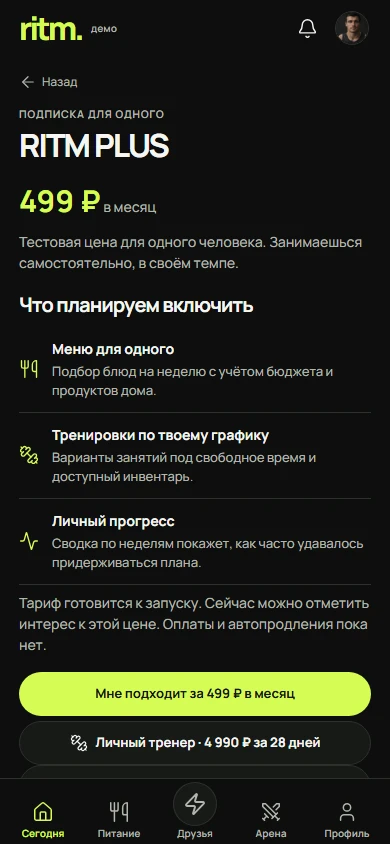
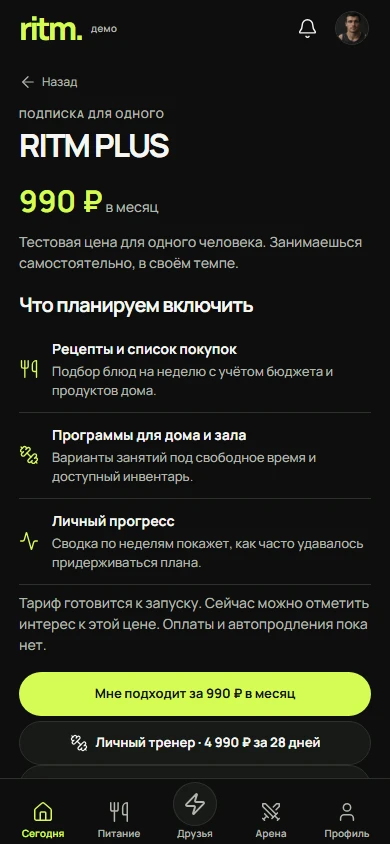
Publish the solo, coach, nutrition and group storefront

diff --git a/docs/meeting/screens/index.html b/docs/meeting/screens/index.html
@@ -1,3 +1,3 @@
 <!DOCTYPE html>
 
-<html lang="ru"><meta charset="utf-8"/><meta content="width=device-width,initial-scale=1" name="viewport"/><title>ritm. — Экраны приложения</title><link href="../assets/fonts.css" rel="stylesheet"/><style>*{box-sizing:border-box}body{margin:0 auto;background:#0d0e0d;color:#f5f6f2;max-width:1100px;padding:24px 18px 70px;font:500 15px/1.45 "Manrope Variable",sans-serif}header{display:flex;align-items:center;justify-content:space-between}header b{font-size:30px;letter-spacing:-.08em;color:#d5fc53}a{color:#d5fc53;text-underline-offset:.2em}h1{letter-spacing:-.05em;font-size:clamp(31px,6vw,54px);line-height:1.1}h2{border-top:1px solid #353831;padding-top:20px;margin:30px 0 12px}.grid{display:grid;grid-template-columns:repeat(auto-fit,minmax(min(158px,44%),1fr));gap:15px}.image{display:block;max-width:240px;border-radius:14px;overflow:hidden;border:1px solid #343930}img{display:block;width:100%;height:auto}h3{font-size:15px;margin:8px 0 1px}p{margin:4px 0;color:#b1b6ac;font-size:13px}article>p a{display:inline-block;padding:5px 0}</style><header><b>ritm.</b><a href="../?screen=programs">Открыть приложение ↗</a></header><h1>Экраны RITM</h1><p>Снимки работающего приложения. Нажми на экран, чтобы рассмотреть детали.</p><a href="RITM-meeting.pdf">PDF для встречи · Founder Preview 1.0</a><section id="solo"><h2>Начать самостоятельно</h2><div class="grid"><article><a class="image" href="solo-programs-390.webp"><img alt="Выбрать программу для себя" loading="lazy" src="solo-programs-390.webp"/></a><h3>Выбрать программу для себя</h3><p><a href="solo-programs-375.webp">375 px</a> · <a href="solo-programs-390.webp">390 px</a> · <a href="solo-programs-430.webp">430 px</a></p></article><article><a class="image" href="plus-390.webp"><img alt="RITM PLUS · тариф для одного" loading="lazy" src="plus-390.webp"/></a><h3>Личный тариф за 499 ₽ в месяц</h3><p><a href="plus-375.webp">375 px</a> · <a href="plus-390.webp">390 px</a> · <a href="plus-430.webp">430 px</a></p></article><article><a class="image" href="coach-390.webp"><img alt="Личный тренер на 28 дней" loading="lazy" src="coach-390.webp"/></a><h3>Личный тренер · 4 990 ₽ за 28 дней</h3><p><a href="coach-375.webp">375 px</a> · <a href="coach-390.webp">390 px</a> · <a href="coach-430.webp">430 px</a></p></article><article><a class="image" href="nutritionist-390.webp"><img alt="Личный нутрициолог на 28 дней" loading="lazy" src="nutritionist-390.webp"/></a><h3>Личный нутрициолог · 12 900 ₽ за 28 дней</h3><p><a href="nutritionist-375.webp">375 px</a> · <a href="nutritionist-390.webp">390 px</a> · <a href="nutritionist-430.webp">430 px</a></p></article><article><a class="image" href="solo-question-390.webp"><img alt="Получить подсказку по двум ответам" loading="lazy" src="solo-question-390.webp"/></a><h3>Получить подсказку по двум ответам</h3><p><a href="solo-question-375.webp">375 px</a> · <a href="solo-question-390.webp">390 px</a> · <a href="solo-question-430.webp">430 px</a></p></article><article><a class="image" href="solo-food-390.webp"><img alt="Выбрать блюдо на одного" loading="lazy" src="solo-food-390.webp"/></a><h3>Выбрать блюдо на одного</h3><p><a href="solo-food-375.webp">375 px</a> · <a href="solo-food-390.webp">390 px</a> · <a href="solo-food-430.webp">430 px</a></p></article><article><a class="image" href="solo-friends-390.webp"><img alt="Предложить другу выбрать ход" loading="lazy" src="solo-friends-390.webp"/></a><h3>Предложить другу выбрать ход</h3><p><a href="solo-friends-375.webp">375 px</a> · <a href="solo-friends-390.webp">390 px</a> · <a href="solo-friends-430.webp">430 px</a></p></article></div></section><section><h2>Первый вход</h2><div class="grid"><article><a class="image" href="welcome-390.webp"><img alt="Первое открытие" loading="lazy" src="welcome-390.webp"/></a><h3>Первое открытие</h3><p><a href="welcome-375.webp">375 px</a> · <a href="welcome-390.webp">390 px</a> · <a href="welcome-430.webp">430 px</a></p></article><article><a class="image" href="invite-code-390.webp"><img alt="Вход по приглашению" loading="lazy" src="invite-code-390.webp"/></a><h3>Вход по приглашению</h3><p><a href="invite-code-390.webp">390 px</a></p></article><article><a class="image" href="start-1-390.webp"><img alt="С чего хочешь начать?" loading="lazy" src="start-1-390.webp"/></a><h3>С чего хочешь начать?</h3><p><a href="start-1-390.webp">390 px</a></p></article><article><a class="image" href="start-2-390.webp"><img alt="Сколько времени есть в день?" loading="lazy" src="start-2-390.webp"/></a><h3>Сколько времени есть в день?</h3><p><a href="start-2-390.webp">390 px</a></p></article><article><a class="image" href="guest-390.webp"><img alt="Гостевой вход" loading="lazy" src="guest-390.webp"/></a><h3>Гостевой вход</h3><p><a href="guest-390.webp">390 px</a></p></article></div></section><section><h2>Сегодня</h2><div class="grid"><article><a class="image" href="today-390.webp"><img alt="В своём ритме" loading="lazy" src="today-390.webp"/></a><h3>В своём ритме</h3><p><a href="today-375.webp">375 px</a> · <a href="today-390.webp">390 px</a> · <a href="today-430.webp">430 px</a></p></article><article><a class="image" href="time-390.webp"><img alt="Доступное время" loading="lazy" src="time-390.webp"/></a><h3>Доступное время</h3><p><a href="time-390.webp">390 px</a></p></article><article><a class="image" href="plan-390.webp"><img alt="Мой план" loading="lazy" src="plan-390.webp"/></a><h3>Мой план</h3><p><a href="plan-390.webp">390 px</a></p></article><article><a class="image" href="ai-390.webp"><img alt="Подстроить план" loading="lazy" src="ai-390.webp"/></a><h3>Подстроить план</h3><p><a href="ai-390.webp">390 px</a></p></article><article><a class="image" href="notifications-390.webp"><img alt="Уведомления" loading="lazy" src="notifications-390.webp"/></a><h3>Уведомления</h3><p><a href="notifications-390.webp">390 px</a></p></article></div></section><section><h2>Питание</h2><div class="grid"><article><a class="image" href="food-390.webp"><img alt="Твоё питание" loading="lazy" src="food-390.webp"/></a><h3>Твоё питание</h3><p><a href="food-375.webp">375 px</a> · <a href="food-390.webp">390 px</a> · <a href="food-430.webp">430 px</a></p></article><article><a class="image" href="pantry-390.webp"><img alt="Из того, что дома" loading="lazy" src="pantry-390.webp"/></a><h3>Из того, что дома</h3><p><a href="pantry-390.webp">390 px</a></p></article><article><a class="image" href="recipe-390.webp"><img alt="Рецепт и порции" loading="lazy" src="recipe-390.webp"/></a><h3>Рецепт и порции</h3><p><a href="recipe-390.webp">390 px</a></p></article><article><a class="image" href="week-390.webp"><img alt="Меню на неделю" loading="lazy" src="week-390.webp"/></a><h3>Меню на неделю</h3><p><a href="week-390.webp">390 px</a></p></article><article><a class="image" href="cart-390.webp"><img alt="Продуктовая корзина" loading="lazy" src="cart-390.webp"/></a><h3>Продуктовая корзина</h3><p><a href="cart-390.webp">390 px</a></p></article></div></section><section><h2>Тренировки</h2><div class="grid"><article><a class="image" href="train-390.webp"><img alt="Твои тренировки" loading="lazy" src="train-390.webp"/></a><h3>Твои тренировки</h3><p><a href="train-375.webp">375 px</a> · <a href="train-390.webp">390 px</a> · <a href="train-430.webp">430 px</a></p></article><article><a class="image" href="work-390.webp"><img alt="Силовой блок" loading="lazy" src="work-390.webp"/></a><h3>Силовой блок</h3><p><a href="work-390.webp">390 px</a></p></article><article><a class="image" href="tech-390.webp"><img alt="Техника и варианты" loading="lazy" src="tech-390.webp"/></a><h3>Техника и варианты</h3><p><a href="tech-390.webp">390 px</a></p></article></div></section><section><h2>PULSE</h2><div class="grid"><article><a class="image" href="pulse-390.webp"><img alt="Твой круг и лента" loading="lazy" src="pulse-390.webp"/></a><h3>Твой круг и лента</h3><p><a href="pulse-375.webp">375 px</a> · <a href="pulse-390.webp">390 px</a> · <a href="pulse-430.webp">430 px</a></p></article><article><a class="image" href="reply-390.webp"><img alt="Ответить своим делом" loading="lazy" src="reply-390.webp"/></a><h3>Ответить своим делом</h3><p><a href="reply-390.webp">390 px</a></p></article><article><a class="image" href="circle-390.webp"><img alt="Управление кругом" loading="lazy" src="circle-390.webp"/></a><h3>Управление кругом</h3><p><a href="circle-390.webp">390 px</a></p></article><article><a class="image" href="leave-390.webp"><img alt="Выход из круга" loading="lazy" src="leave-390.webp"/></a><h3>Выход из круга</h3><p><a href="leave-390.webp">390 px</a></p></article><article><a class="image" href="together-390.webp"><img alt="Совместное время" loading="lazy" src="together-390.webp"/></a><h3>Совместное время</h3><p><a href="together-390.webp">390 px</a></p></article></div></section><section><h2>Арена</h2><div class="grid"><article><a class="image" href="arena-390.webp"><img alt="Арена и счёт" loading="lazy" src="arena-390.webp"/></a><h3>Арена и счёт</h3><p><a href="arena-375.webp">375 px</a> · <a href="arena-390.webp">390 px</a> · <a href="arena-430.webp">430 px</a></p></article><article><a class="image" href="game-390.webp"><img alt="История дуэли" loading="lazy" src="game-390.webp"/></a><h3>История дуэли</h3><p><a href="game-390.webp">390 px</a></p></article><article><a class="image" href="setup-390.webp"><img alt="Новая дуэль" loading="lazy" src="setup-390.webp"/></a><h3>Новая дуэль</h3><p><a href="setup-390.webp">390 px</a></p></article><article><a class="image" href="share-390.webp"><img alt="Приглашение другу" loading="lazy" src="share-390.webp"/></a><h3>Приглашение другу</h3><p><a href="share-390.webp">390 px</a></p></article></div></section><section><h2>Профиль</h2><div class="grid"><article><a class="image" href="dna-1-390.webp"><img alt="Какова твоя цель?" loading="lazy" src="dna-1-390.webp"/></a><h3>Какова твоя цель?</h3><p><a href="dna-1-390.webp">390 px</a></p></article><article><a class="image" href="dna-2-390.webp"><img alt="Какое изменение особенно важно?" loading="lazy" src="dna-2-390.webp"/></a><h3>Какое изменение особенно важно?</h3><p><a href="dna-2-390.webp">390 px</a></p></article><article><a class="image" href="dna-3-390.webp"><img alt="Какой уровень тебе близок?" loading="lazy" src="dna-3-390.webp"/></a><h3>Какой уровень тебе близок?</h3><p><a href="dna-3-390.webp">390 px</a></p></article><article><a class="image" href="dna-4-390.webp"><img alt="Как давно ты тренируешься?" loading="lazy" src="dna-4-390.webp"/></a><h3>Как давно ты тренируешься?</h3><p><a href="dna-4-390.webp">390 px</a></p></article><article><a class="image" href="dna-5-390.webp"><img alt="Сколько времени обычно есть?" loading="lazy" src="dna-5-390.webp"/></a><h3>Сколько времени обычно есть?</h3><p><a href="dna-5-390.webp">390 px</a></p></article><article><a class="image" href="dna-6-390.webp"><img alt="Где удобнее заниматься?" loading="lazy" src="dna-6-390.webp"/></a><h3>Где удобнее заниматься?</h3><p><a href="dna-6-390.webp">390 px</a></p></article><article><a class="image" href="dna-7-390.webp"><img alt="Какое оборудование доступно?" loading="lazy" src="dna-7-390.webp"/></a><h3>Какое оборудование доступно?</h3><p><a href="dna-7-390.webp">390 px</a></p></article><article><a class="image" href="dna-8-390.webp"><img alt="Какую еду выбираешь?" loading="lazy" src="dna-8-390.webp"/></a><h3>Какую еду выбираешь?</h3><p><a href="dna-8-390.webp">390 px</a></p></article><article><a class="image" href="dna-9-390.webp"><img alt="Есть продукты, которые исключить?" loading="lazy" src="dna-9-390.webp"/></a><h3>Есть продукты, которые исключить?</h3><p><a href="dna-9-390.webp">390 px</a></p></article><article><a class="image" href="dna-10-390.webp"><img alt="Что важнее при выборе продуктов?" loading="lazy" src="dna-10-390.webp"/></a><h3>Что важнее при выборе продуктов?</h3><p><a href="dna-10-390.webp">390 px</a></p></article><article><a class="image" href="dna-11-390.webp"><img alt="Что чаще мешает продолжать?" loading="lazy" src="dna-11-390.webp"/></a><h3>Что чаще мешает продолжать?</h3><p><a href="dna-11-390.webp">390 px</a></p></article><article><a class="image" href="dna-12-390.webp"><img alt="Что помогает вернуться?" loading="lazy" src="dna-12-390.webp"/></a><h3>Что помогает вернуться?</h3><p><a href="dna-12-390.webp">390 px</a></p></article><article><a class="image" href="dna-13-390.webp"><img alt="Как хочешь заниматься?" loading="lazy" src="dna-13-390.webp"/></a><h3>Как хочешь заниматься?</h3><p><a href="dna-13-390.webp">390 px</a></p></article><article><a class="image" href="dna-map-390.webp"><img alt="Мои предпочтения" loading="lazy" src="dna-map-390.webp"/></a><h3>Мои предпочтения</h3><p><a href="dna-map-390.webp">390 px</a></p></article><article><a class="image" href="profile-390.webp"><img alt="Личный профиль" loading="lazy" src="profile-390.webp"/></a><h3>Личный профиль</h3><p><a href="profile-375.webp">375 px</a> · <a href="profile-390.webp">390 px</a> · <a href="profile-430.webp">430 px</a></p></article><article><a class="image" href="checkin-390.webp"><img alt="Личные замеры" loading="lazy" src="checkin-390.webp"/></a><h3>Личные замеры</h3><p><a href="checkin-390.webp">390 px</a></p></article><article><a class="image" href="seasonplan-390.webp"><img alt="Настройка сезона" loading="lazy" src="seasonplan-390.webp"/></a><h3>Настройка сезона</h3><p><a href="seasonplan-390.webp">390 px</a></p></article><article><a class="image" href="recap-390.webp"><img alt="Недельный отчёт" loading="lazy" src="recap-390.webp"/></a><h3>Недельный отчёт</h3><p><a href="recap-390.webp">390 px</a></p></article><article><a class="image" href="settings-390.webp"><img alt="Настройки и доступ" loading="lazy" src="settings-390.webp"/></a><h3>Настройки и доступ</h3><p><a href="settings-390.webp">390 px</a></p></article><article><a class="image" href="privacy-390.webp"><img alt="Приватность действий" loading="lazy" src="privacy-390.webp"/></a><h3>Приватность действий</h3><p><a href="privacy-390.webp">390 px</a></p></article></div></section><section><h2>Эксперты</h2><div class="grid"><article><a class="image" href="experts-390.webp"><img alt="Экспертные направления" loading="lazy" src="experts-390.webp"/></a><h3>Экспертные направления</h3><p><a href="experts-375.webp">375 px</a> · <a href="experts-390.webp">390 px</a> · <a href="experts-430.webp">430 px</a></p></article><article><a class="image" href="expert-food-390.webp"><img alt="Нутрициолог" loading="lazy" src="expert-food-390.webp"/></a><h3>Нутрициолог</h3><p><a href="expert-food-390.webp">390 px</a></p></article><article><a class="image" href="expert-train-390.webp"><img alt="Тренер" loading="lazy" src="expert-train-390.webp"/></a><h3>Тренер</h3><p><a href="expert-train-390.webp">390 px</a></p></article></div></section><section><h2>Сезоны</h2><div class="grid"><article><a class="image" href="solo-start-390.webp"><img alt="Личная программа" loading="lazy" src="solo-start-390.webp"/></a><h3>Личная программа</h3><p><a href="solo-start-390.webp">390 px</a></p></article><article><a class="image" href="store-390.webp"><img alt="Личные программы и сезоны" loading="lazy" src="store-390.webp"/></a><h3>Личные программы и сезоны</h3><p><a href="store-375.webp">375 px</a> · <a href="store-390.webp">390 px</a> · <a href="store-430.webp">430 px</a></p></article><article><a class="image" href="food-28-390.webp"><img alt="FOOD 28" loading="lazy" src="food-28-390.webp"/></a><h3>FOOD 28</h3><p><a href="food-28-390.webp">390 px</a></p></article><article><a class="image" href="reset-28-390.webp"><img alt="RESET 28" loading="lazy" src="reset-28-390.webp"/></a><h3>RESET 28</h3><p><a href="reset-28-390.webp">390 px</a></p></article><article><a class="image" href="duo-28-390.webp"><img alt="DUO 28" loading="lazy" src="duo-28-390.webp"/></a><h3>DUO 28</h3><p><a href="duo-28-390.webp">390 px</a></p></article><article><a class="image" href="order-390.webp"><img alt="Заявка на сезон" loading="lazy" src="order-390.webp"/></a><h3>Заявка на сезон</h3><p><a href="order-390.webp">390 px</a></p></article></div></section><section><h2>От приглашения до следующего сезона · Founder Preview 1.0</h2><div class="grid"><article><a class="image" href="choice-guest.webp"><img alt="Гостевой выбор" loading="lazy" src="choice-guest.webp"/></a><h3>Гостевой выбор</h3></article><article><a class="image" href="choice-result.webp"><img alt="Выполненный ход" loading="lazy" src="choice-result.webp"/></a><h3>Выполненный ход</h3></article><article><a class="image" href="offer.webp"><img alt="Условия RESET LEAGUE" loading="lazy" src="offer.webp"/></a><h3>Условия RESET LEAGUE</h3></article><article><a class="image" href="payment.webp"><img alt="Подтверждение учебной оплаты" loading="lazy" src="payment.webp"/></a><h3>Подтверждение учебной оплаты</h3></article><article><a class="image" href="support.webp"><img alt="Ответ нутрициолога" loading="lazy" src="support.webp"/></a><h3>Ответ нутрициолога</h3></article><article><a class="image" href="desk.webp"><img alt="Кабинет специалиста" loading="lazy" src="desk.webp"/></a><h3>Кабинет специалиста</h3></article><article><a class="image" href="journey.webp"><img alt="История сезонов" loading="lazy" src="journey.webp"/></a><h3>История сезонов</h3></article></div></section></html>
+<html lang="ru"><meta charset="utf-8"/><meta content="width=device-width,initial-scale=1" name="viewport"/><title>ritm. — Экраны приложения</title><link href="../assets/fonts.css" rel="stylesheet"/><style>*{box-sizing:border-box}body{margin:0 auto;background:#0d0e0d;color:#f5f6f2;max-width:1100px;padding:24px 18px 70px;font:500 15px/1.45 "Manrope Variable",sans-serif}header{display:flex;align-items:center;justify-content:space-between}header b{font-size:30px;letter-spacing:-.08em;color:#d5fc53}a{color:#d5fc53;text-underline-offset:.2em}h1{letter-spacing:-.05em;font-size:clamp(31px,6vw,54px);line-height:1.1}h2{border-top:1px solid #353831;padding-top:20px;margin:30px 0 12px}.grid{display:grid;grid-template-columns:repeat(auto-fit,minmax(min(158px,44%),1fr));gap:15px}.image{display:block;max-width:240px;border-radius:14px;overflow:hidden;border:1px solid #343930}img{display:block;width:100%;height:auto}h3{font-size:15px;margin:8px 0 1px}p{margin:4px 0;color:#b1b6ac;font-size:13px}article>p a{display:inline-block;padding:5px 0}</style><header><b>ritm.</b><a href="../?screen=programs">Открыть приложение ↗</a></header><h1>Экраны RITM</h1><p>Снимки работающего приложения. Нажми на экран, чтобы рассмотреть детали.</p><a href="RITM-meeting.pdf">PDF для встречи · Founder Preview 1.0</a><section id="solo"><h2>Начать самостоятельно</h2><div class="grid"><article><a class="image" href="solo-programs-390.webp"><img alt="Выбрать программу для себя" loading="lazy" src="solo-programs-390.webp"/></a><h3>Выбрать программу для себя</h3><p><a href="solo-programs-375.webp">375 px</a> · <a href="solo-programs-390.webp">390 px</a> · <a href="solo-programs-430.webp">430 px</a></p></article><article><a class="image" href="plus-390.webp"><img alt="RITM PLUS · тариф для одного" loading="lazy" src="plus-390.webp"/></a><h3>Личный тариф за 990 ₽ в месяц</h3><p><a href="plus-375.webp">375 px</a> · <a href="plus-390.webp">390 px</a> · <a href="plus-430.webp">430 px</a></p></article><article><a class="image" href="coach-390.webp"><img alt="Личный тренер на 28 дней" loading="lazy" src="coach-390.webp"/></a><h3>Личный тренер · 4 990 ₽ за 28 дней</h3><p><a href="coach-375.webp">375 px</a> · <a href="coach-390.webp">390 px</a> · <a href="coach-430.webp">430 px</a></p></article><article><a class="image" href="nutritionist-390.webp"><img alt="Личный нутрициолог на 28 дней" loading="lazy" src="nutritionist-390.webp"/></a><h3>Личный нутрициолог · 12 900 ₽ за 28 дней</h3><p><a href="nutritionist-375.webp">375 px</a> · <a href="nutritionist-390.webp">390 px</a> · <a href="nutritionist-430.webp">430 px</a></p></article><article><a class="image" href="solo-question-390.webp"><img alt="Получить подсказку по двум ответам" loading="lazy" src="solo-question-390.webp"/></a><h3>Получить подсказку по двум ответам</h3><p><a href="solo-question-375.webp">375 px</a> · <a href="solo-question-390.webp">390 px</a> · <a href="solo-question-430.webp">430 px</a></p></article><article><a class="image" href="solo-food-390.webp"><img alt="Выбрать блюдо на одного" loading="lazy" src="solo-food-390.webp"/></a><h3>Выбрать блюдо на одного</h3><p><a href="solo-food-375.webp">375 px</a> · <a href="solo-food-390.webp">390 px</a> · <a href="solo-food-430.webp">430 px</a></p></article><article><a class="image" href="solo-friends-390.webp"><img alt="Предложить другу выбрать ход" loading="lazy" src="solo-friends-390.webp"/></a><h3>Предложить другу выбрать ход</h3><p><a href="solo-friends-375.webp">375 px</a> · <a href="solo-friends-390.webp">390 px</a> · <a href="solo-friends-430.webp">430 px</a></p></article></div></section><section><h2>Первый вход</h2><div class="grid"><article><a class="image" href="welcome-390.webp"><img alt="Первое открытие" loading="lazy" src="welcome-390.webp"/></a><h3>Первое открытие</h3><p><a href="welcome-375.webp">375 px</a> · <a href="welcome-390.webp">390 px</a> · <a href="welcome-430.webp">430 px</a></p></article><article><a class="image" href="invite-code-390.webp"><img alt="Вход по приглашению" loading="lazy" src="invite-code-390.webp"/></a><h3>Вход по приглашению</h3><p><a href="invite-code-390.webp">390 px</a></p></article><article><a class="image" href="start-1-390.webp"><img alt="С чего хочешь начать?" loading="lazy" src="start-1-390.webp"/></a><h3>С чего хочешь начать?</h3><p><a href="start-1-390.webp">390 px</a></p></article><article><a class="image" href="start-2-390.webp"><img alt="Сколько времени есть в день?" loading="lazy" src="start-2-390.webp"/></a><h3>Сколько времени есть в день?</h3><p><a href="start-2-390.webp">390 px</a></p></article><article><a class="image" href="guest-390.webp"><img alt="Гостевой вход" loading="lazy" src="guest-390.webp"/></a><h3>Гостевой вход</h3><p><a href="guest-390.webp">390 px</a></p></article></div></section><section><h2>Сегодня</h2><div class="grid"><article><a class="image" href="today-390.webp"><img alt="В своём ритме" loading="lazy" src="today-390.webp"/></a><h3>В своём ритме</h3><p><a href="today-375.webp">375 px</a> · <a href="today-390.webp">390 px</a> · <a href="today-430.webp">430 px</a></p></article><article><a class="image" href="time-390.webp"><img alt="Доступное время" loading="lazy" src="time-390.webp"/></a><h3>Доступное время</h3><p><a href="time-390.webp">390 px</a></p></article><article><a class="image" href="plan-390.webp"><img alt="Мой план" loading="lazy" src="plan-390.webp"/></a><h3>Мой план</h3><p><a href="plan-390.webp">390 px</a></p></article><article><a class="image" href="ai-390.webp"><img alt="Подстроить план" loading="lazy" src="ai-390.webp"/></a><h3>Подстроить план</h3><p><a href="ai-390.webp">390 px</a></p></article><article><a class="image" href="notifications-390.webp"><img alt="Уведомления" loading="lazy" src="notifications-390.webp"/></a><h3>Уведомления</h3><p><a href="notifications-390.webp">390 px</a></p></article></div></section><section><h2>Питание</h2><div class="grid"><article><a class="image" href="food-390.webp"><img alt="Твоё питание" loading="lazy" src="food-390.webp"/></a><h3>Твоё питание</h3><p><a href="food-375.webp">375 px</a> · <a href="food-390.webp">390 px</a> · <a href="food-430.webp">430 px</a></p></article><article><a class="image" href="pantry-390.webp"><img alt="Из того, что дома" loading="lazy" src="pantry-390.webp"/></a><h3>Из того, что дома</h3><p><a href="pantry-390.webp">390 px</a></p></article><article><a class="image" href="recipe-390.webp"><img alt="Рецепт и порции" loading="lazy" src="recipe-390.webp"/></a><h3>Рецепт и порции</h3><p><a href="recipe-390.webp">390 px</a></p></article><article><a class="image" href="week-390.webp"><img alt="Меню на неделю" loading="lazy" src="week-390.webp"/></a><h3>Меню на неделю</h3><p><a href="week-390.webp">390 px</a></p></article><article><a class="image" href="cart-390.webp"><img alt="Продуктовая корзина" loading="lazy" src="cart-390.webp"/></a><h3>Продуктовая корзина</h3><p><a href="cart-390.webp">390 px</a></p></article></div></section><section><h2>Тренировки</h2><div class="grid"><article><a class="image" href="train-390.webp"><img alt="Твои тренировки" loading="lazy" src="train-390.webp"/></a><h3>Твои тренировки</h3><p><a href="train-375.webp">375 px</a> · <a href="train-390.webp">390 px</a> · <a href="train-430.webp">430 px</a></p></article><article><a class="image" href="work-390.webp"><img alt="Силовой блок" loading="lazy" src="work-390.webp"/></a><h3>Силовой блок</h3><p><a href="work-390.webp">390 px</a></p></article><article><a class="image" href="tech-390.webp"><img alt="Техника и варианты" loading="lazy" src="tech-390.webp"/></a><h3>Техника и варианты</h3><p><a href="tech-390.webp">390 px</a></p></article></div></section><section><h2>PULSE</h2><div class="grid"><article><a class="image" href="pulse-390.webp"><img alt="Твой круг и лента" loading="lazy" src="pulse-390.webp"/></a><h3>Твой круг и лента</h3><p><a href="pulse-375.webp">375 px</a> · <a href="pulse-390.webp">390 px</a> · <a href="pulse-430.webp">430 px</a></p></article><article><a class="image" href="reply-390.webp"><img alt="Ответить своим делом" loading="lazy" src="reply-390.webp"/></a><h3>Ответить своим делом</h3><p><a href="reply-390.webp">390 px</a></p></article><article><a class="image" href="circle-390.webp"><img alt="Управление кругом" loading="lazy" src="circle-390.webp"/></a><h3>Управление кругом</h3><p><a href="circle-390.webp">390 px</a></p></article><article><a class="image" href="leave-390.webp"><img alt="Выход из круга" loading="lazy" src="leave-390.webp"/></a><h3>Выход из круга</h3><p><a href="leave-390.webp">390 px</a></p></article><article><a class="image" href="together-390.webp"><img alt="Совместное время" loading="lazy" src="together-390.webp"/></a><h3>Совместное время</h3><p><a href="together-390.webp">390 px</a></p></article></div></section><section><h2>Арена</h2><div class="grid"><article><a class="image" href="arena-390.webp"><img alt="Арена и счёт" loading="lazy" src="arena-390.webp"/></a><h3>Арена и счёт</h3><p><a href="arena-375.webp">375 px</a> · <a href="arena-390.webp">390 px</a> · <a href="arena-430.webp">430 px</a></p></article><article><a class="image" href="game-390.webp"><img alt="История дуэли" loading="lazy" src="game-390.webp"/></a><h3>История дуэли</h3><p><a href="game-390.webp">390 px</a></p></article><article><a class="image" href="setup-390.webp"><img alt="Новая дуэль" loading="lazy" src="setup-390.webp"/></a><h3>Новая дуэль</h3><p><a href="setup-390.webp">390 px</a></p></article><article><a class="image" href="share-390.webp"><img alt="Приглашение другу" loading="lazy" src="share-390.webp"/></a><h3>Приглашение другу</h3><p><a href="share-390.webp">390 px</a></p></article></div></section><section><h2>Профиль</h2><div class="grid"><article><a class="image" href="dna-1-390.webp"><img alt="Какова твоя цель?" loading="lazy" src="dna-1-390.webp"/></a><h3>Какова твоя цель?</h3><p><a href="dna-1-390.webp">390 px</a></p></article><article><a class="image" href="dna-2-390.webp"><img alt="Какое изменение особенно важно?" loading="lazy" src="dna-2-390.webp"/></a><h3>Какое изменение особенно важно?</h3><p><a href="dna-2-390.webp">390 px</a></p></article><article><a class="image" href="dna-3-390.webp"><img alt="Какой уровень тебе близок?" loading="lazy" src="dna-3-390.webp"/></a><h3>Какой уровень тебе близок?</h3><p><a href="dna-3-390.webp">390 px</a></p></article><article><a class="image" href="dna-4-390.webp"><img alt="Как давно ты тренируешься?" loading="lazy" src="dna-4-390.webp"/></a><h3>Как давно ты тренируешься?</h3><p><a href="dna-4-390.webp">390 px</a></p></article><article><a class="image" href="dna-5-390.webp"><img alt="Сколько времени обычно есть?" loading="lazy" src="dna-5-390.webp"/></a><h3>Сколько времени обычно есть?</h3><p><a href="dna-5-390.webp">390 px</a></p></article><article><a class="image" href="dna-6-390.webp"><img alt="Где удобнее заниматься?" loading="lazy" src="dna-6-390.webp"/></a><h3>Где удобнее заниматься?</h3><p><a href="dna-6-390.webp">390 px</a></p></article><article><a class="image" href="dna-7-390.webp"><img alt="Какое оборудование доступно?" loading="lazy" src="dna-7-390.webp"/></a><h3>Какое оборудование доступно?</h3><p><a href="dna-7-390.webp">390 px</a></p></article><article><a class="image" href="dna-8-390.webp"><img alt="Какую еду выбираешь?" loading="lazy" src="dna-8-390.webp"/></a><h3>Какую еду выбираешь?</h3><p><a href="dna-8-390.webp">390 px</a></p></article><article><a class="image" href="dna-9-390.webp"><img alt="Есть продукты, которые исключить?" loading="lazy" src="dna-9-390.webp"/></a><h3>Есть продукты, которые исключить?</h3><p><a href="dna-9-390.webp">390 px</a></p></article><article><a class="image" href="dna-10-390.webp"><img alt="Что важнее при выборе продуктов?" loading="lazy" src="dna-10-390.webp"/></a><h3>Что важнее при выборе продуктов?</h3><p><a href="dna-10-390.webp">390 px</a></p></article><article><a class="image" href="dna-11-390.webp"><img alt="Что чаще мешает продолжать?" loading="lazy" src="dna-11-390.webp"/></a><h3>Что чаще мешает продолжать?</h3><p><a href="dna-11-390.webp">390 px</a></p></article><article><a class="image" href="dna-12-390.webp"><img alt="Что помогает вернуться?" loading="lazy" src="dna-12-390.webp"/></a><h3>Что помогает вернуться?</h3><p><a href="dna-12-390.webp">390 px</a></p></article><article><a class="image" href="dna-13-390.webp"><img alt="Как хочешь заниматься?" loading="lazy" src="dna-13-390.webp"/></a><h3>Как хочешь заниматься?</h3><p><a href="dna-13-390.webp">390 px</a></p></article><article><a class="image" href="dna-map-390.webp"><img alt="Мои предпочтения" loading="lazy" src="dna-map-390.webp"/></a><h3>Мои предпочтения</h3><p><a href="dna-map-390.webp">390 px</a></p></article><article><a class="image" href="profile-390.webp"><img alt="Личный профиль" loading="lazy" src="profile-390.webp"/></a><h3>Личный профиль</h3><p><a href="profile-375.webp">375 px</a> · <a href="profile-390.webp">390 px</a> · <a href="profile-430.webp">430 px</a></p></article><article><a class="image" href="checkin-390.webp"><img alt="Личные замеры" loading="lazy" src="checkin-390.webp"/></a><h3>Личные замеры</h3><p><a href="checkin-390.webp">390 px</a></p></article><article><a class="image" href="seasonplan-390.webp"><img alt="Настройка сезона" loading="lazy" src="seasonplan-390.webp"/></a><h3>Настройка сезона</h3><p><a href="seasonplan-390.webp">390 px</a></p></article><article><a class="image" href="recap-390.webp"><img alt="Недельный отчёт" loading="lazy" src="recap-390.webp"/></a><h3>Недельный отчёт</h3><p><a href="recap-390.webp">390 px</a></p></article><article><a class="image" href="settings-390.webp"><img alt="Настройки и доступ" loading="lazy" src="settings-390.webp"/></a><h3>Настройки и доступ</h3><p><a href="settings-390.webp">390 px</a></p></article><article><a class="image" href="privacy-390.webp"><img alt="Приватность действий" loading="lazy" src="privacy-390.webp"/></a><h3>Приватность действий</h3><p><a href="privacy-390.webp">390 px</a></p></article></div></section><section><h2>Эксперты</h2><div class="grid"><article><a class="image" href="experts-390.webp"><img alt="Экспертные направления" loading="lazy" src="experts-390.webp"/></a><h3>Экспертные направления</h3><p><a href="experts-375.webp">375 px</a> · <a href="experts-390.webp">390 px</a> · <a href="experts-430.webp">430 px</a></p></article><article><a class="image" href="expert-food-390.webp"><img alt="Нутрициолог" loading="lazy" src="expert-food-390.webp"/></a><h3>Нутрициолог</h3><p><a href="expert-food-390.webp">390 px</a></p></article><article><a class="image" href="expert-train-390.webp"><img alt="Тренер" loading="lazy" src="expert-train-390.webp"/></a><h3>Тренер</h3><p><a href="expert-train-390.webp">390 px</a></p></article></div></section><section><h2>Сезоны</h2><div class="grid"><article><a class="image" href="solo-start-390.webp"><img alt="Личная программа" loading="lazy" src="solo-start-390.webp"/></a><h3>Личная программа</h3><p><a href="solo-start-390.webp">390 px</a></p></article><article><a class="image" href="store-390.webp"><img alt="Личные программы и сезоны" loading="lazy" src="store-390.webp"/></a><h3>Личные программы и сезоны</h3><p><a href="store-375.webp">375 px</a> · <a href="store-390.webp">390 px</a> · <a href="store-430.webp">430 px</a></p></article><article><a class="image" href="food-28-390.webp"><img alt="FOOD 28" loading="lazy" src="food-28-390.webp"/></a><h3>FOOD 28</h3><p><a href="food-28-390.webp">390 px</a></p></article><article><a class="image" href="reset-28-390.webp"><img alt="RESET 28" loading="lazy" src="reset-28-390.webp"/></a><h3>RESET 28</h3><p><a href="reset-28-390.webp">390 px</a></p></article><article><a class="image" href="duo-28-390.webp"><img alt="DUO 28" loading="lazy" src="duo-28-390.webp"/></a><h3>DUO 28</h3><p><a href="duo-28-390.webp">390 px</a></p></article><article><a class="image" href="order-390.webp"><img alt="Заявка на сезон" loading="lazy" src="order-390.webp"/></a><h3>Заявка на сезон</h3><p><a href="order-390.webp">390 px</a></p></article></div></section><section><h2>От приглашения до следующего сезона · Founder Preview 1.0</h2><div class="grid"><article><a class="image" href="choice-guest.webp"><img alt="Гостевой выбор" loading="lazy" src="choice-guest.webp"/></a><h3>Гостевой выбор</h3></article><article><a class="image" href="choice-result.webp"><img alt="Выполненный ход" loading="lazy" src="choice-result.webp"/></a><h3>Выполненный ход</h3></article><article><a class="image" href="offer.webp"><img alt="Условия RESET LEAGUE" loading="lazy" src="offer.webp"/></a><h3>Условия RESET LEAGUE</h3></article><article><a class="image" href="payment.webp"><img alt="Подтверждение учебной оплаты" loading="lazy" src="payment.webp"/></a><h3>Подтверждение учебной оплаты</h3></article><article><a class="image" href="support.webp"><img alt="Ответ нутрициолога" loading="lazy" src="support.webp"/></a><h3>Ответ нутрициолога</h3></article><article><a class="image" href="desk.webp"><img alt="Кабинет специалиста" loading="lazy" src="desk.webp"/></a><h3>Кабинет специалиста</h3></article><article><a class="image" href="journey.webp"><img alt="История сезонов" loading="lazy" src="journey.webp"/></a><h3>История сезонов</h3></article></div></section></html>

diff --git a/docs/meeting/assets/edition/programs.js b/docs/meeting/assets/edition/programs.js
@@ -14,7 +14,7 @@ const SoloPlans = {
     steps:['Подготовь инвентарь для освоенного упражнения.', 'Открой силовой блок и выполни занятие по своему плану.', 'Запиши подходы и повторы. Программа завершится после трёх тренировочных дней.']}
 };
 
-const plusMonthlyRubles = 499;
+const plusMonthlyRubles = 990;
 
 function createProgramViews({state,photo,I,b,e,label,head,num}) {
   const current = () => Object.keys(SoloPlans).find(id=>state().solo?.[id]?.selected);
@@ -25,16 +25,16 @@ function createProgramViews({state,photo,I,b,e,label,head,num}) {
       '<span><strong>'+e(title)+'</strong><small>'+e(note)+'</small></span>'+I('chevron-right',17)+'</button>';
   }
   function plusCard() {
-    const saved=state().interest?.includes('platform:plus');
-    return '<button type="button" class="plus-card" data-a="go:plus"><span><small>Подписка для одного</small><strong>RITM PLUS</strong>'+
-      '<span>'+ (saved?'Интерес сохранён':'Питание, тренировки и личный прогресс') +'</span></span>'+
+    const saved=state().interest?.includes('platform:plus990');
+    return '<button type="button" class="plus-card" data-a="go:plus"><span><small>RITM PLUS</small><strong>Самостоятельно</strong>'+
+      '<span>'+ (saved?'Интерес сохранён':'Программы, рецепты и дневник') +'</span></span>'+
       '<b>'+num(plusMonthlyRubles)+' ₽<small>в месяц</small></b>'+I('chevron-right',16)+'</button>';
   }
   function plus() {
-    const saved=state().interest?.includes('platform:plus');
+    const saved=state().interest?.includes('platform:plus990');
     const features=[
-      ['utensils','Меню для одного','Подбор блюд на неделю с учётом бюджета и продуктов дома.'],
-      ['dumbbell','Тренировки по твоему графику','Варианты занятий под свободное время и доступный инвентарь.'],
+      ['utensils','Рецепты и список покупок','Подбор блюд на неделю с учётом бюджета и продуктов дома.'],
+      ['dumbbell','Программы для дома и зала','Варианты занятий под свободное время и доступный инвентарь.'],
       ['activity','Личный прогресс','Сводка по неделям покажет, как часто удавалось придерживаться плана.']
     ];
     return head('RITM PLUS','Подписка для одного')+
@@ -44,7 +44,7 @@ function createProgramViews({state,photo,I,b,e,label,head,num}) {
         '<div class="plus-feature">'+I(icon,20)+'<div><strong>'+e(title)+'</strong><small>'+e(desc)+'</small></div></div>').join('')+
       '<p class="program-note">Тариф готовится к запуску. Сейчас можно отметить интерес к этой цене. Оплаты и автопродления пока нет.</p>'+
       (saved?'<p class="plus-saved" role="status">'+I('check',18)+'Интерес к тарифу сохранён</p>':
-        b('Мне подходит за '+num(plusMonthlyRubles)+' ₽ в месяц','interest:platform:plus','btn full'))+
+        b('Мне подходит за '+num(plusMonthlyRubles)+' ₽ в месяц','interest:platform:plus990','btn full'))+
       b('Личный тренер · '+num(Catalog.TRAIN.price)+' ₽ за 28 дней','product:TRAIN','linebtn full','dumbbell')+
       b('Личный нутрициолог · '+num(Catalog.NUTRI.price)+' ₽ за 28 дней','product:NUTRI','linebtn full','utensils')+
       b('Посмотреть сезон FOOD 28','product:FOOD','textbtn full');
@@ -58,14 +58,17 @@ function createProgramViews({state,photo,I,b,e,label,head,num}) {
       return row('solo:'+id,x.title,note,x.photo);
     }).join('');
     const order=(state().allocation?.ordering||'RESET,FOOD,DUO').split(',');
-    const info={FOOD:'Для одного · нутрициолог',RESET:'В группе · тренер и нутрициолог',DUO:'Для двоих · общие задания'};
-    const seasons=order.filter(k=>Object.hasOwn(Catalog,k)).map(k=>{
-      const x=Catalog[k];return row('product:'+k,k==='RESET'?'RESET LEAGUE':k+' 28',info[k]+' · '+num(x.price)+' ₽',x.pic);
+    const info={FOOD:'Меню и групповой разбор',RESET:'Группа до 10 человек, тренер и нутрициолог'};
+    const groups=order.filter(k=>Object.hasOwn(info,k)).map(k=>{
+      const x=Catalog[k];return row('product:'+k,k==='RESET'?'RESET LEAGUE':'FOOD 28',info[k]+' · '+num(x.price)+' ₽',x.pic);
     }).join('');
     return head('Программы')+plusCard()+
-      ['TRAIN','NUTRI'].map(k=>row('product:'+k,Catalog[k].title,'Один на один · 28 дней · '+num(Catalog[k].price)+' ₽',Catalog[k].pic)).join('')+'<div class="program-heading"><h2>Для одного</h2><span>Бесплатно</span></div>'+
-      '<p class="program-note">Выбери занятие и проходи его в своём темпе. Приглашать друга не нужно.</p>'+solo+
-      '<div class="program-heading"><h2>С экспертами</h2><span>28 дней</span></div>'+seasons+
+      row('product:TRAIN','С тренером','Личный план и 4 разбора · '+num(Catalog.TRAIN.price)+' ₽ за 28 дней',Catalog.TRAIN.pic)+
+      row('product:NUTRI','С нутрициологом','Дневник питания и 4 разбора · '+num(Catalog.NUTRI.price)+' ₽ за 28 дней',Catalog.NUTRI.pic)+
+      '<div class="program-heading"><h2>Хочу в группу</h2><span>28 дней</span></div>'+groups+
+      '<div class="program-heading"><h2>Попробовать бесплатно</h2></div>'+solo+
+      '<div class="program-heading"><h2>Для двоих</h2></div>'+
+      row('product:DUO','DUO 28','Совместный сезон · '+num(Catalog.DUO.price)+' ₽ за двоих',Catalog.DUO.pic)+
       b('Индивидуальные консультации','go:experts','linebtn full','users')+b('Подстроить план','go:ai','textbtn','sliders-horizontal');
   }
   function detail(id) {

diff --git a/docs/meeting/index.html b/docs/meeting/index.html
@@ -5,4 +5,4 @@
     <use href="#loading-heartbeat" x="168"/>
   </g>
 </svg><noscript><a style="color:#D5FC53" href="./screens/">Посмотреть экраны RITM без JavaScript</a></noscript><p role="status">Открываем твой день…</p></div></main><nav id="nav" aria-label="Основная навигация"></nav></div><div id="toast" role="status" aria-live="polite"></div>
-<script>window.RITM_PREMIUM=true;</script><script src="meeting-start.js?v=solo1"></script><script src="browser.js?rev=nutri2"></script><script src="assets/icons.js"></script><script src="content.js?v=nutri2"></script><script src="season.js"></script><script src="app.js"></script><script src="assets/edition/visual.js"></script><script src="assets/home/view.js?v=solo1"></script><script src="assets/edition/choice.js?v=solo1"></script><script src="assets/edition/lifecycle.js?v=meeting2"></script><script src="assets/edition/programs.js?v=nutri2"></script><script src="premium.js?rev=nutri2"></script></body></html>
+<script>window.RITM_PREMIUM=true;</script><script src="meeting-start.js?v=solo1"></script><script src="browser.js?rev=plus990"></script><script src="assets/icons.js"></script><script src="content.js?v=plus990"></script><script src="season.js"></script><script src="app.js"></script><script src="assets/edition/visual.js"></script><script src="assets/home/view.js?v=solo1"></script><script src="assets/edition/choice.js?v=solo1"></script><script src="assets/edition/lifecycle.js?v=meeting2"></script><script src="assets/edition/programs.js?v=plus990"></script><script src="premium.js?rev=plus990"></script></body></html>

diff --git a/docs/meeting/browser.js b/docs/meeting/browser.js
@@ -11,7 +11,7 @@ const previewActor=sessionStorage.getItem(sandboxStorageKey)==='friend'?'friend'
 let previewWorker,warmTimer;
 function worker(){
   if (!previewWorker) {
-    previewWorker=new Worker('./worker.js?rev=nutri2'+(homeScenario?'&scenario=home':''));
+    previewWorker=new Worker('./worker.js?rev=plus990'+(homeScenario?'&scenario=home':''));
     previewWorker.onmessage=receive;previewWorker.onerror=workerError;
   }
   return previewWorker;

diff --git a/docs/meeting/journey.py b/docs/meeting/journey.py
@@ -64,7 +64,7 @@ def operate(c,p,v,b,t):
     elif v=='interest':
         role=b.get('role');kind=b.get('kind')
         expert_offer=role in ('train','food','ai') and kind in ('consult','program','event','plus')
-        if not expert_offer and (role,kind)!=('platform','plus'):
+        if not expert_offer and (role,kind) not in (('platform','plus'),('platform','plus990')):
             raise ValueError('Предложение недоступно.')
         c.execute('INSERT OR IGNORE INTO expert_interest VALUES(?,?,?,?)',(p,role,kind,t))
     return {}
